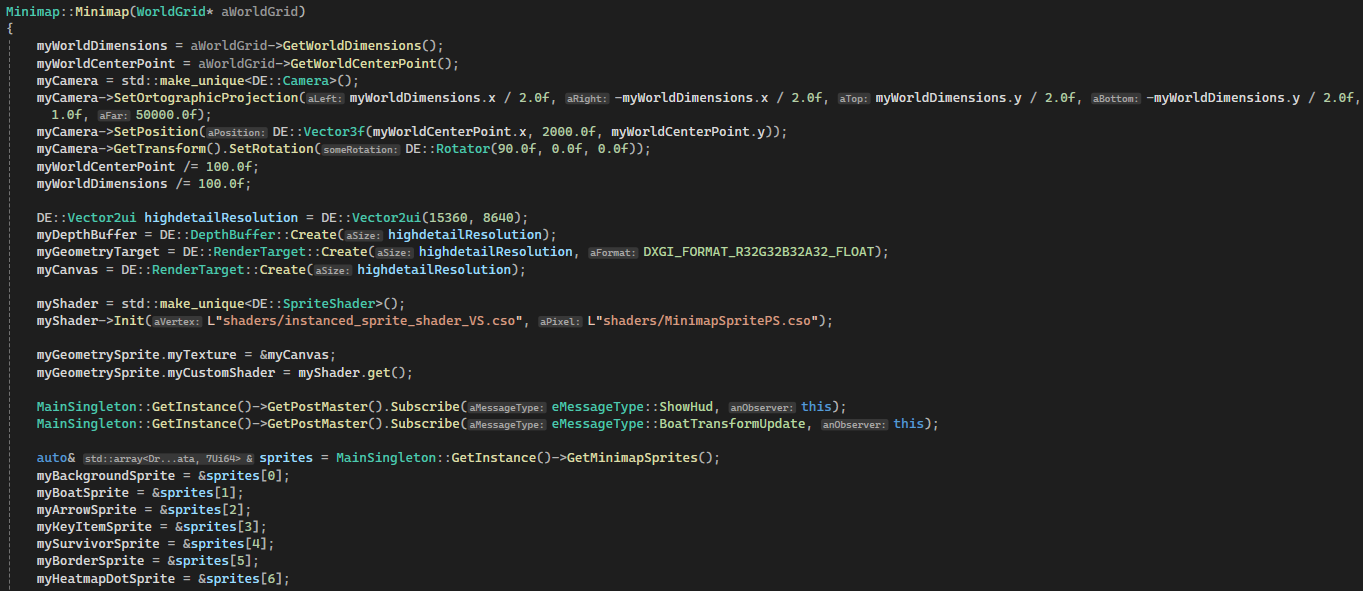
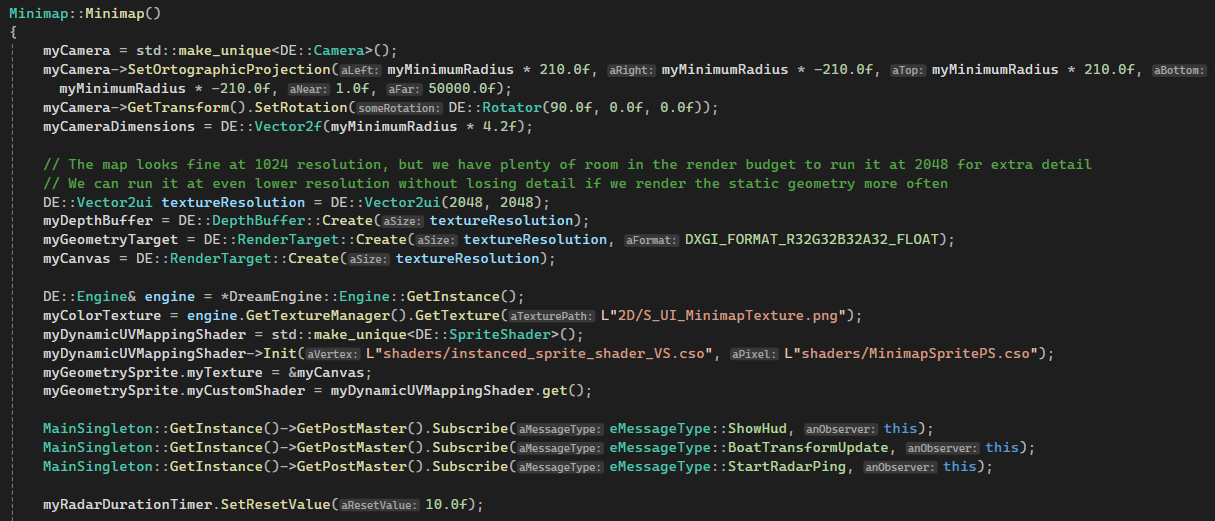
Updated the minimap highlight, need new gifs later aswell

Changed region(s): [[0.0, 0.0, 1.0, 1.0]]

diff --git a/minimap.html b/minimap.html
@@ -18,7 +18,7 @@
 							<li>
 								<a href="#">Personal Work Highlights<i class="icon solid fab fa-angle-down" style="color: #fff; padding-left: 0.25em;"></i></a>
 								<ul>
-									<li><a href="minimap.html">Dynamic Minimap Generation via World LOD Grid</a></li>
+									<li><a href="minimap.html">Dynamically Generated and UV Mapped Minimap</a></li>
 									<li><a href="specialization.html">Battle Royale Simulation Using Heatmaps</a></li>
 									<li><a href="movement.html">Advanced PhysX Based FPS Movement</a></li>
 									<li><a href="enemysystem.html">Diablo 3 Inspired Enemy AI System</a></li>
@@ -64,8 +64,7 @@
 			<section id="main" class="container" style="padding-top: 1em; padding-bottom: 0em;">
 				<section class="box special" style="padding: 2em 0 2em 0;">
 					<header class="major" style="padding: 0;">
-						<h2 style="color: #FFC500;">Dynamic Minimap Generation via World LOD Grid</h2>
-						<h6 style="color: #FF7FE8;">(Work in progress for <a href="groupprojects.html#echoesinthemurk" class="highlightpageanchor2" style="font-size: inherit;">Echoes in the Murk</a>)</h6>
+						<h2 style="color: #FFC500;">Dynamically Generated and UV Mapped Minimap</h2>
 					</header>
 					<span class="image featured" style="width: auto; display: contents;"><img src="images/MinimapShowcase.gif" alt="" style="width: -webkit-fill-available; justify-self: center; margin: 1.5em 0 2em 0; border-top: #ffffff50 1px solid; border-bottom: #ffffff50 1px solid;"/></span>
 
@@ -78,7 +77,7 @@
 				<section class="box special">
 					<h4 style="text-align: left; color: #FFC500;">Summary</h4>
 					<div class="scrollnavitem" id="showcase"></div>
-					<p style="text-align: left; margin-bottom: 0px;">Using a runtime-generated 2D grid, derived from the extents of the level geometry, this system orthographically projects the environment onto a texture that spans the entire grid. That texture then serves as the basis for rendering accurate map topology (e.g. height data) and is dynamically culled in an HLSL shader based on the minimap's current radius relative to the player's world position. The much smaller minimap then translates its 0-1 UV coordinates to the corresponding region of the full world texture, ensuring correct scale and orientation on the HUD, while also adjusting the position and scale of any sprites placed within the minimap context.</p>
+					<p style="text-align: left; margin-bottom: 0px;">This system continuously projects the static environment near the player onto a texture using top-down orthographic projection. That texture then serves as the basis for rendering accurate map topology (e.g. height data) and is dynamically culled in an HLSL shader based on the minimap's current radius relative to the player's world position. The much smaller minimap then translates its 0-1 UV coordinates to the unculled region of the full environment texture, ensuring correct scale and orientation on the HUD, while also adjusting the position and scale of any other sprites placed within the minimap context.</p>
 				</section>
 
 				<section class="box special">
@@ -97,38 +96,38 @@
 					</div>
 					<div class="row">
 						<div class="col-12">
-							<h5 style="text-align: left; color: #FF7FE8; padding: 0 0 0.5em 0; margin-bottom: 0;">Max Radius Minimap in a Smaller World</h5>
+							<h5 style="text-align: left; color: #FF7FE8; padding: 0 0 0.5em 0; margin-bottom: 0;">Max Radius Minimap in a Small World</h5>
 							<span class="image featured" style="width: auto; display: contents;"><img src="images/MaxRadiusMinimap.png" alt="" style="width: -webkit-fill-available; justify-self: center; padding: 0 0 3em 0;"/></span>
 						</div>
 					</div>
 					<div class="row">
 						<div class="col-12">
-							<h5 style="text-align: left; color: #FF7FE8; padding: 0 0 0.5em 0; margin-bottom: 0;">Minimum Radius Minimap in a Smaller World</h5>
+							<h5 style="text-align: left; color: #FF7FE8; padding: 0 0 0.5em 0; margin-bottom: 0;">Minimum Radius Minimap in a Small World</h5>
 							<span class="image featured" style="width: auto; display: contents;"><img src="images/MinRadiusMinimap.png" alt="" style="width: -webkit-fill-available; justify-self: center; padding: 0 0 3em 0;"/></span>
 						</div>
 					</div>
 					<div class="row">
 						<div class="col-12">
-							<h5 style="text-align: left; color: #FF7FE8; padding: 0 0 0.5em 0; margin-bottom: 0;">World Grid and Map Setup</h5>
-							<span class="image featured" style="width: auto; display: contents;"><img src="images/WorldGridAndMapSetupSnippet.png" alt="" style="width: -webkit-fill-available; justify-self: center; padding: 0 0 3em 0;"/></span>
-						</div>
-					</div>
-					<div class="row">
-						<div class="col-12">
-							<h5 style="text-align: left; color: #FF7FE8; padding: 0 0 0.5em 0; margin-bottom: 0;">World Grid Calculations</h5>
-							<span class="image featured" style="width: auto; display: contents;"><img src="images/WorldGridCalculationSnippet.png" alt="" style="width: -webkit-fill-available; justify-self: center; padding: 0 0 3em 0;"/></span>
-						</div>
-					</div>
-					<div class="row">
-						<div class="col-12">
-							<h5 style="text-align: left; color: #FF7FE8; padding: 0 0 0.5em 0; margin-bottom: 0;">Minimap Calculations</h5>
+							<h5 style="text-align: left; color: #FF7FE8; padding: 0 0 0.5em 0; margin-bottom: 0;">Minimap Setup</h5>
 							<span class="image featured" style="width: auto; display: contents;"><img src="images/MinimapCalculationSnippet.png" alt="" style="width: -webkit-fill-available; justify-self: center; padding: 0 0 3em 0;"/></span>
 						</div>
 					</div>
 					<div class="row">
 						<div class="col-12">
-							<h5 style="text-align: left; color: #FF7FE8; padding: 0 0 0.5em 0; margin-bottom: 0;">Rendering and Culling the Geometry</h5>
-							<span class="image featured" style="width: auto; display: contents;"><img src="images/GeometryRenderSnippet.png" alt="" style="width: -webkit-fill-available; justify-self: center; padding: 0 0 0 0;"/></span>
+							<h5 style="text-align: left; color: #FF7FE8; padding: 0 0 0.5em 0; margin-bottom: 0;">Rendering the Geometry</h5>
+							<span class="image featured" style="width: auto; display: contents;"><img src="images/MinimapGeometryRender.png" alt="" style="width: -webkit-fill-available; justify-self: center; padding: 0 0 3em 0;"/></span>
+						</div>
+					</div>
+					<div class="row">
+						<div class="col-12">
+							<h5 style="text-align: left; color: #FF7FE8; padding: 0 0 0.5em 0; margin-bottom: 0;">Culling the Rendered Geometry</h5>
+							<span class="image featured" style="width: auto; display: contents;"><img src="images/MinimapCullingRender.png" alt="" style="width: -webkit-fill-available; justify-self: center; padding: 0 0 0 0;"/></span>
+						</div>
+					</div>
+					<div class="row">
+						<div class="col-12">
+							<h5 style="text-align: left; color: #FF7FE8; padding: 0 0 0.5em 0; margin-bottom: 0;">Final Sprite Render With Runtime UV Mapping</h5>
+							<span class="image featured" style="width: auto; display: contents;"><img src="images/MinimapSpriteRender.png" alt="" style="width: -webkit-fill-available; justify-self: center; padding: 0 0 0 0;"/></span>
 						</div>
 					</div>
 				</section>

diff --git a/index.html b/index.html
@@ -18,7 +18,7 @@
 							<li>
 								<a href="#">Personal Work Highlights<i class="icon solid fab fa-angle-down" style="color: #fff; padding-left: 0.25em;"></i></a>
 								<ul>
-									<li><a href="minimap.html">Dynamic Minimap Generation via World LOD Grid</a></li>
+									<li><a href="minimap.html">Dynamically Generated and UV Mapped Minimap</a></li>
 									<li><a href="specialization.html">Battle Royale Simulation Using Heatmaps</a></li>
 									<li><a href="movement.html">Advanced PhysX Based FPS Movement</a></li>
 									<li><a href="enemysystem.html">Diablo 3 Inspired Enemy AI System</a></li>
@@ -56,10 +56,9 @@
 					<div class="row" style="margin-bottom: 0em; margin-left: -1em;">
 						<div class="col-6 col-12-narrower leftcard" style="padding-left: 1em;">
 							<section class="box special frontpage">		
-								<a href="minimap.html" class="frontpageanchor"><h3 style="color: #FFC500; margin-bottom: 0em;">Dynamic Minimap Generation via World LOD Grid</h3></a>
-								<h6 style="color: #FF7FE8;">(Work in progress for <a href="groupprojects.html#echoesinthemurk" class="highlightpageanchor2" style="font-size: inherit;">Echoes in the Murk</a>)</h6>
+								<a href="minimap.html" class="frontpageanchor"><h3 style="color: #FFC500; margin-bottom: 0em;">Dynamically Generated and UV Mapped Minimap</h3></a>
 								<span class="image featured frontpage"><img src="images/MinimapShowcase.gif" alt=""/></span>
-								<p>Using a runtime-generated 2D grid, derived from the extents of the level geometry, this system orthographically projects the environment onto a texture that spans the entire grid. That texture then serves as the basis for rendering accurate map topology (e.g. height data) and is dynamically culled in an HLSL shader based on the minimap's current radius relative to the player's world position. The much smaller minimap then translates its 0-1 UV coordinates to the corresponding region of the full world texture, ensuring correct scale and orientation on the HUD, while also adjusting the position and scale of any sprites placed within the minimap context.</p>
+								<p>This system continuously projects the static environment near the player onto a texture using top-down orthographic projection. That texture then serves as the basis for rendering accurate map topology (e.g. height data) and is dynamically culled in an HLSL shader based on the minimap's current radius relative to the player's world position. The much smaller minimap then translates its 0-1 UV coordinates to the unculled region of the full environment texture, ensuring correct scale and orientation on the HUD, while also adjusting the position and scale of any other sprites placed within the minimap context.</p>
 								<ul class="actions special" style="margin-bottom: 2em;">
 									<li><a href="minimap.html" class="button alt">Learn More</a></li>
 								</ul>
@@ -68,7 +67,7 @@
 						<div class="col-6 col-12-narrower" style="padding-left: 1em;">
 							<section class="box special frontpage">		
 								<a href="specialization.html" class="frontpageanchor"><h3 style="color: #FFC500; margin-bottom: 0em;">Battle Royale Simulation Using Heatmaps</h3></a>
-								<h6 style="color: #FF7FE8;">(The simulation running below is a GIF image, keybinds will not work)</h6>
+								<h6 style="color: #FF7FE8; margin-bottom: -1.5em;">(The simulation running below is a GIF image, keybinds will not work)</h6>
 								<span class="image featured frontpage"><img src="images/Heatmap full.gif" alt=""/></span>
 								<p>My focus with this project was to showcase a more advanced way to utilize heatmaps than simply for data analysis, which is their most common use case. The project consists of a simulator running in a 2D game world representing the top down map view of a Battle Royale game. The simulator emulates full rounds of a generic Battle Royale game, using custom built algorithms to sample data from an array of heatmaps to control where the safe zone shrinks toward and where to spawn new game objects. The heatmaps are heated up by a procedurally generated weather system, game object spawn locations and the AI pawns' actions during the simulation.</p>
 								<ul class="actions special" style="margin-bottom: 2em;">

diff --git a/groupprojects.html b/groupprojects.html
@@ -18,7 +18,7 @@
 							<li>
 								<a href="#">Personal Work Highlights<i class="icon solid fab fa-angle-down" style="color: #fff; padding-left: 0.25em;"></i></a>
 								<ul>
-									<li><a href="minimap.html">Dynamic Minimap Generation via World LOD Grid</a></li>
+									<li><a href="minimap.html">Dynamically Generated and UV Mapped Minimap</a></li>
 									<li><a href="specialization.html">Battle Royale Simulation Using Heatmaps</a></li>
 									<li><a href="movement.html">Advanced PhysX Based FPS Movement</a></li>
 									<li><a href="enemysystem.html">Diablo 3 Inspired Enemy AI System</a></li>
@@ -96,7 +96,7 @@
 											<li>Universal gamepad support using SDL3</li>
 											<li>Wwise SDK setup & implementation</li>
 											<li>Respawning, checkpoint, and out of bounds functionality</li>
-											<li class="hover_img hover_img_link"><a href="minimap.html">Minimap system with dynamic enemy indicators, points of interest, scaling, and culling 🔗<span><img src="images/MinimapShowcase.gif" alt="image" style="height: 15em;" /></span></a></li>
+											<li class="hover_img hover_img_link"><a href="minimap.html">Dynamically generated and UV mapped minimap 🔗<span><img src="images/MinimapShowcase.gif" alt="image" style="height: 15em;" /></span></a></li>
 											<li>Heatmap & world LoD system</li>
 											<li>Continued development of my deferred rendering decal system</li>
 											<li>Light & shadow programming (dynamic mapping, smooth transitions, performance improvements, etc.)</li>

diff --git a/aboutme.html b/aboutme.html
@@ -18,7 +18,7 @@
 							<li>
 								<a href="#">Personal Work Highlights<i class="icon solid fab fa-angle-down" style="color: #fff; padding-left: 0.25em;"></i></a>
 								<ul>
-									<li><a href="minimap.html">Dynamic Minimap Generation via World LOD Grid</a></li>
+									<li><a href="minimap.html">Dynamically Generated and UV Mapped Minimap</a></li>
 									<li><a href="specialization.html">Battle Royale Simulation Using Heatmaps</a></li>
 									<li><a href="movement.html">Advanced PhysX Based FPS Movement</a></li>
 									<li><a href="enemysystem.html">Diablo 3 Inspired Enemy AI System</a></li>

diff --git a/decals.html b/decals.html
@@ -18,7 +18,7 @@
 							<li>
 								<a href="#">Personal Work Highlights<i class="icon solid fab fa-angle-down" style="color: #fff; padding-left: 0.25em;"></i></a>
 								<ul>
-									<li><a href="minimap.html">Dynamic Minimap Generation via World LOD Grid</a></li>
+									<li><a href="minimap.html">Dynamically Generated and UV Mapped Minimap</a></li>
 									<li><a href="specialization.html">Battle Royale Simulation Using Heatmaps</a></li>
 									<li><a href="movement.html">Advanced PhysX Based FPS Movement</a></li>
 									<li><a href="enemysystem.html">Diablo 3 Inspired Enemy AI System</a></li>

diff --git a/enemysystem.html b/enemysystem.html
@@ -18,7 +18,7 @@
 							<li>
 								<a href="#">Personal Work Highlights<i class="icon solid fab fa-angle-down" style="color: #fff; padding-left: 0.25em;"></i></a>
 								<ul>
-									<li><a href="minimap.html">Dynamic Minimap Generation via World LOD Grid</a></li>
+									<li><a href="minimap.html">Dynamically Generated and UV Mapped Minimap</a></li>
 									<li><a href="specialization.html">Battle Royale Simulation Using Heatmaps</a></li>
 									<li><a href="movement.html">Advanced PhysX Based FPS Movement</a></li>
 									<li><a href="enemysystem.html">Diablo 3 Inspired Enemy AI System</a></li>

diff --git a/movement.html b/movement.html
@@ -18,7 +18,7 @@
 							<li>
 								<a href="#">Personal Work Highlights<i class="icon solid fab fa-angle-down" style="color: #fff; padding-left: 0.25em;"></i></a>
 								<ul>
-									<li><a href="minimap.html">Dynamic Minimap Generation via World LOD Grid</a></li>
+									<li><a href="minimap.html">Dynamically Generated and UV Mapped Minimap</a></li>
 									<li><a href="specialization.html">Battle Royale Simulation Using Heatmaps</a></li>
 									<li><a href="movement.html">Advanced PhysX Based FPS Movement</a></li>
 									<li><a href="enemysystem.html">Diablo 3 Inspired Enemy AI System</a></li>

diff --git a/pathfinding.html b/pathfinding.html
@@ -18,7 +18,7 @@
 							<li>
 								<a href="#">Personal Work Highlights<i class="icon solid fab fa-angle-down" style="color: #fff; padding-left: 0.25em;"></i></a>
 								<ul>
-									<li><a href="minimap.html">Dynamic Minimap Generation via World LOD Grid</a></li>
+									<li><a href="minimap.html">Dynamically Generated and UV Mapped Minimap</a></li>
 									<li><a href="specialization.html">Battle Royale Simulation Using Heatmaps</a></li>
 									<li><a href="movement.html">Advanced PhysX Based FPS Movement</a></li>
 									<li><a href="enemysystem.html">Diablo 3 Inspired Enemy AI System</a></li>

diff --git a/specialization.html b/specialization.html
@@ -18,7 +18,7 @@
 							<li>
 								<a href="#">Personal Work Highlights<i class="icon solid fab fa-angle-down" style="color: #fff; padding-left: 0.25em;"></i></a>
 								<ul>
-									<li><a href="minimap.html">Dynamic Minimap Generation via World LOD Grid</a></li>
+									<li><a href="minimap.html">Dynamically Generated and UV Mapped Minimap</a></li>
 									<li><a href="specialization.html">Battle Royale Simulation Using Heatmaps</a></li>
 									<li><a href="movement.html">Advanced PhysX Based FPS Movement</a></li>
 									<li><a href="enemysystem.html">Diablo 3 Inspired Enemy AI System</a></li>
